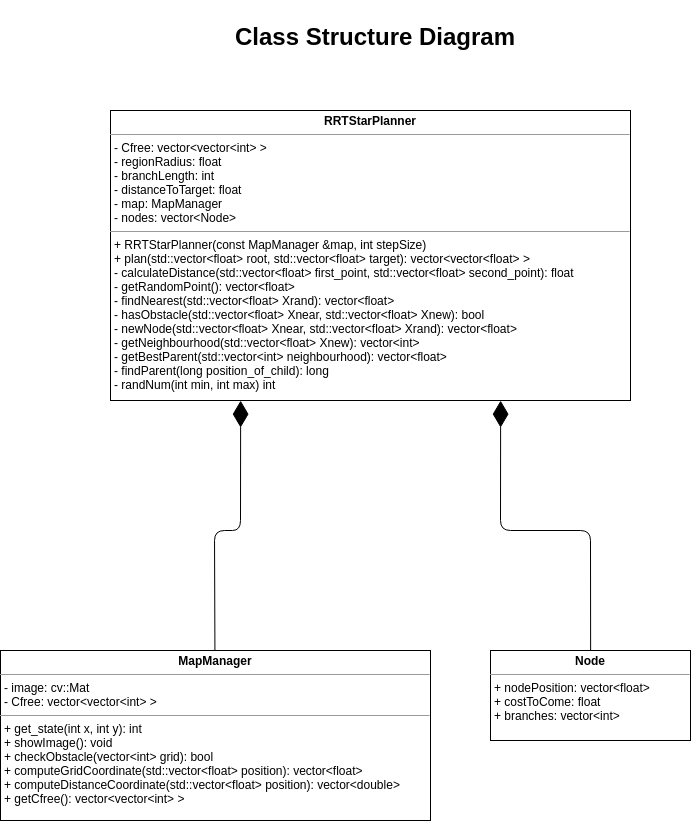
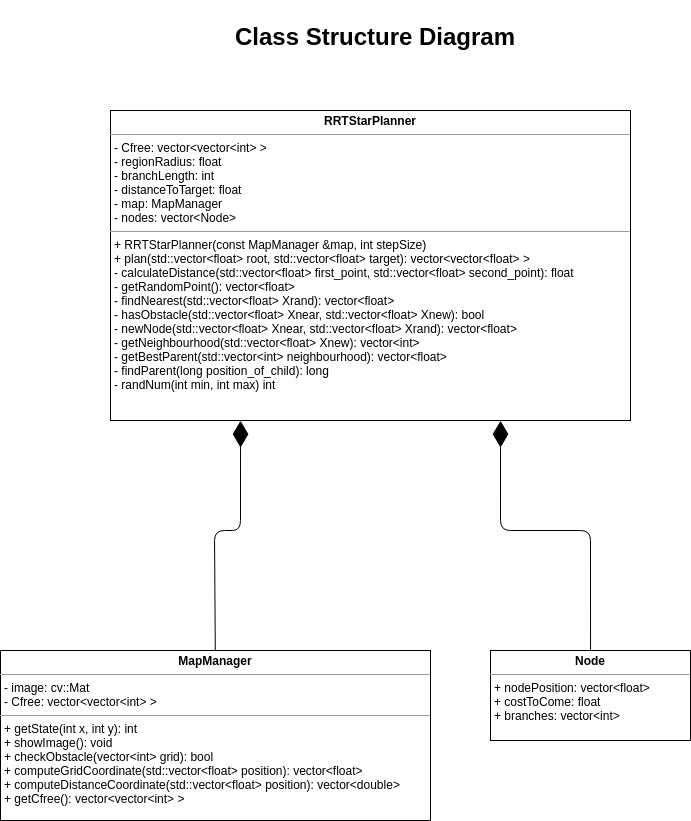
Corrected Typo in Class UML diagram. Implemented hpp files.

diff --git a/app/RRTStarPlanner/RRTStarPlanner.hpp b/app/RRTStarPlanner/RRTStarPlanner.hpp
@@ -1,0 +1,36 @@
+#include <math.h>
+#include <iostream>
+#include <vector>
+#include <cstdlib>
+#include <ctime>
+#include <algorithm>
+#include <geometry_msgs/PoseStamped.h>
+
+#include "RRTStarPlanner/MapManager.hpp"
+#include "RRTStarPlanner/Node.hpp"
+
+class RRTStarPlanner
+{
+public:
+  RRTStarPlanner(const MapManager& manager, int step_size);
+  std::vector<geometry_msgs::PoseStamped> makePlan(std::vector<float> root, std::vector<float> target);
+  float calculateDistance(std::vector<float> first_point, std::vector<float> second_point);
+
+private:  
+  std::vector<std::vector<int> > Cfree;
+  float regionRadius;
+  int branchLength;
+  float distanceToTarget;
+  std::vector<Node> nodes;
+  MapManager map;
+
+  std::vector<float> getRandomPoint();
+  std::vector<float> findNearest(std::vector<float> Xrand);
+  bool hasObstacle(std::vector<float> Xnear, std::vector<float> Xnew);
+  std::vector<float> newNode(std::vector<float> Xnear, std::vector<float> Xrand);
+  std::vector<int> getNeighbourhood(std::vector<float> Xnew);
+  std::vector<float> getBestParent(std::vector<int> neighbourhood);
+  long findParent(long position_of_child);
+
+  int randNum(int min, int max);
+};

diff --git a/app/RRTStarPlanner/MapManager.hpp b/app/RRTStarPlanner/MapManager.hpp
@@ -1,0 +1,21 @@
+#pragma once
+
+#include <iostream>
+#include <opencv2/opencv.hpp>
+#include <math.h>
+
+class MapManager {
+ public:
+  MapManager();
+  int getState(int x, int y);
+  void showImage();
+  bool checkObstacle(std::vector<int> grid);
+  std::vector<float> computeGridCoordinate(std::vector<float> position);
+  std::vector<double> computeDistanceCoordinate(std::vector<float> position);
+  std::vector<std::vector<int> > getCfree();
+
+ private:
+  cv::Mat image;
+  std::vector<std::vector<int> > Cfree;
+
+};

diff --git a/app/RRTStarPlanner/Node.hpp b/app/RRTStarPlanner/Node.hpp
@@ -1,0 +1,8 @@
+#include <vector>
+
+class Node {
+ public:
+  std::vector<float> nodePosition;
+  float costToCome;
+  std::vector<int> branches;
+};
